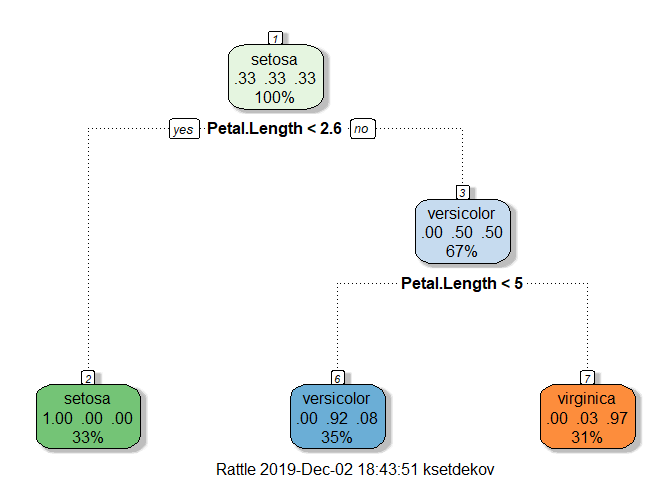
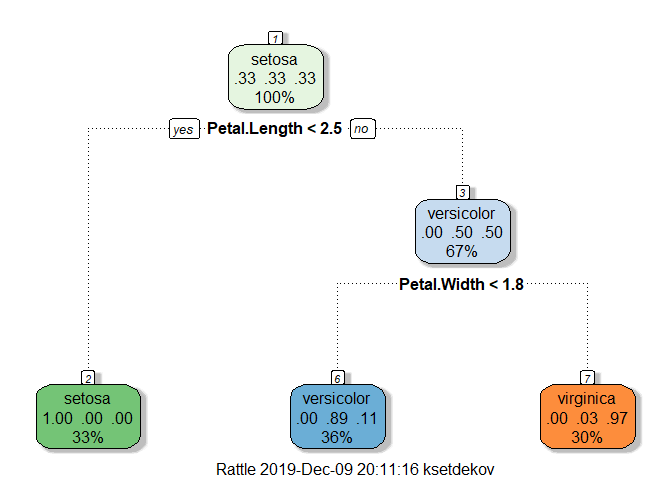
bagging

diff --git a/08 practical ml/3_week_notes.md b/08 practical ml/3_week_notes.md
@@ -123,11 +123,11 @@ print(modFit$finalModel)
 ## node), split, n, loss, yval, (yprob)
 ##       * denotes terminal node
 ## 
-## 1) root 105 70 setosa (0.33333333 0.33333333 0.33333333)  
-##   2) Petal.Length< 2.6 35  0 setosa (1.00000000 0.00000000 0.00000000) *
-##   3) Petal.Length>=2.6 70 35 versicolor (0.00000000 0.50000000 0.50000000)  
-##     6) Petal.Length< 4.95 37  3 versicolor (0.00000000 0.91891892 0.08108108) *
-##     7) Petal.Length>=4.95 33  1 virginica (0.00000000 0.03030303 0.96969697) *
+## 1) root 105 70 setosa (0.3333333 0.3333333 0.3333333)  
+##   2) Petal.Length< 2.45 35  0 setosa (1.0000000 0.0000000 0.0000000) *
+##   3) Petal.Length>=2.45 70 35 versicolor (0.0000000 0.5000000 0.5000000)  
+##     6) Petal.Width< 1.75 38  4 versicolor (0.0000000 0.8947368 0.1052632) *
+##     7) Petal.Width>=1.75 32  1 virginica (0.0000000 0.0312500 0.9687500) *
 ```
 
 
@@ -172,10 +172,10 @@ predict(modFit,newdata=testing)
 ##  [7] setosa     setosa     setosa     setosa     setosa     setosa    
 ## [13] setosa     setosa     setosa     versicolor versicolor versicolor
 ## [19] versicolor versicolor versicolor versicolor versicolor versicolor
-## [25] virginica  versicolor versicolor versicolor versicolor versicolor
+## [25] versicolor versicolor versicolor versicolor versicolor versicolor
 ## [31] virginica  virginica  virginica  virginica  virginica  virginica 
-## [37] versicolor virginica  virginica  versicolor virginica  virginica 
-## [43] versicolor virginica  virginica 
+## [37] virginica  virginica  virginica  versicolor virginica  virginica 
+## [43] virginica  virginica  virginica 
 ## Levels: setosa versicolor virginica
 ```
 
@@ -192,4 +192,179 @@ in R both in the caret package - [party](http://cran.r-project.org/web/packages/
 * [Elements of Statistical Learning](http://www-stat.stanford.edu/~tibs/ElemStatLearn/)
 * [Classification and regression trees](http://www.amazon.com/Classification-Regression-Trees-Leo-Breiman/dp/0412048418)
 
+## bootstrap aggregating (bagging)
+
+1. reasmple causes and make predictions
+2. average or majority vote for model
+
+
+```r
+library(ElemStatLearn)
+data(ozone, package = "ElemStatLearn")
+ozone <- ozone[order(ozone$ozone),]
+head(ozone)
+```
+
+```
+##     ozone radiation temperature wind
+## 17      1         8          59  9.7
+## 19      4        25          61  9.7
+## 14      6        78          57 18.4
+## 45      7        48          80 14.3
+## 106     7        49          69 10.3
+## 7       8        19          61 20.1
+```
+
+bagging example
+
+```r
+ll <- matrix(NA, nrow = 10, ncol = 155)
+for (i in 1:10) {
+    ss <- sample(1:dim(ozone)[1], replace = T)
+    ozone0 <- ozone[ss, ]
+    ozone0 <- ozone0[order(ozone0$ozone), ]
+    loess0 <- loess(temperature ~ ozone, data = ozone0, span = 0.2)
+    ll[i, ] <- predict(loess0, newdata = data.frame(ozone = 1:155))
+}
+#average
+with(ozone, plot(ozone, temperature, pch = 19, cex = 0.5))
+for (i in 1:10) {
+    lines(1:155, ll[i,], col="grey", lwd=1)
+}
+lines(1:155, apply(ll,2,mean), col="red", lwd=2)
+```
+
+![](3_week_notes_files/figure-html/unnamed-chunk-5-1.png)<!-- -->
+
+
+bagging - lower variability with same bias
+
+
+## baggin in caret
+
+Some models perform bagging in train with $method$ options
+
+* bagEarth
+* treebag
+* bagFDA
+
+## custom bagging
+
+
+```r
+predictors = data.frame(ozone = ozone$ozone)
+temperature = ozone$temperature
+library(caret)
+treebag <-
+    bag(
+        predictors,
+        temperature,
+        B = 10,
+        bagControl = bagControl(
+            fit = ctreeBag$fit,
+            predict = ctreeBag$pred,
+            aggregate = ctreeBag$aggregate
+        )
+    )
+```
+
+```
+## Warning: executing %dopar% sequentially: no parallel backend registered
+```
+### custom bagging examples
+greqy - actual
+red - one tree
+blue - fit from bagged regression
+
+```r
+with(ozone, plot(ozone, temperature, col = "lightgrey", pch = 19, cex = 0.5))
+points(ozone$ozone, predict(treebag$fits[[1]]$fit, predictors), pch=19, col="red")
+points(ozone$ozone, predict(treebag, predictors), pch=19, col="blue")
+```
+
+![](3_week_notes_files/figure-html/unnamed-chunk-7-1.png)<!-- -->
+exploration
+
+```r
+ctreeBag$fit
+```
+
+```
+## function (x, y, ...) 
+## {
+##     loadNamespace("party")
+##     data <- as.data.frame(x)
+##     data$y <- y
+##     party::ctree(y ~ ., data = data)
+## }
+## <bytecode: 0x000000002496ba10>
+## <environment: namespace:caret>
+```
+
+```r
+ctreeBag$pred
+```
+
+```
+## function (object, x) 
+## {
+##     if (!is.data.frame(x)) 
+##         x <- as.data.frame(x)
+##     obsLevels <- levels(object@data@get("response")[, 1])
+##     if (!is.null(obsLevels)) {
+##         rawProbs <- party::treeresponse(object, x)
+##         probMatrix <- matrix(unlist(rawProbs), ncol = length(obsLevels), 
+##             byrow = TRUE)
+##         out <- data.frame(probMatrix)
+##         colnames(out) <- obsLevels
+##         rownames(out) <- NULL
+##     }
+##     else out <- unlist(party::treeresponse(object, x))
+##     out
+## }
+## <bytecode: 0x000000002496b000>
+## <environment: namespace:caret>
+```
+
+```r
+ctreeBag$aggregate
+```
+
+```
+## function (x, type = "class") 
+## {
+##     if (is.matrix(x[[1]]) | is.data.frame(x[[1]])) {
+##         pooled <- x[[1]] & NA
+##         classes <- colnames(pooled)
+##         for (i in 1:ncol(pooled)) {
+##             tmp <- lapply(x, function(y, col) y[, col], col = i)
+##             tmp <- do.call("rbind", tmp)
+##             pooled[, i] <- apply(tmp, 2, median)
+##         }
+##         if (type == "class") {
+##             out <- factor(classes[apply(pooled, 1, which.max)], 
+##                 levels = classes)
+##         }
+##         else out <- as.data.frame(pooled)
+##     }
+##     else {
+##         x <- matrix(unlist(x), ncol = length(x))
+##         out <- apply(x, 1, median)
+##     }
+##     out
+## }
+## <bytecode: 0x0000000024976858>
+## <environment: namespace:caret>
+```
+__Notes__:
+
+* Good for nonlinear model
+* often used with trees - an extension is random forstrs
+* some models use bagging in caret's train function
+
+__Further resources__:
+
+* [Bagging](http://en.wikipedia.org/wiki/Bootstrap_aggregating)
+* [Bagging and boosting](http://stat.ethz.ch/education/semesters/FS_2008/CompStat/sk-ch8.pdf)
+* [Elements of Statistical Learning](http://www-stat.stanford.edu/~tibs/ElemStatLearn/)
 
